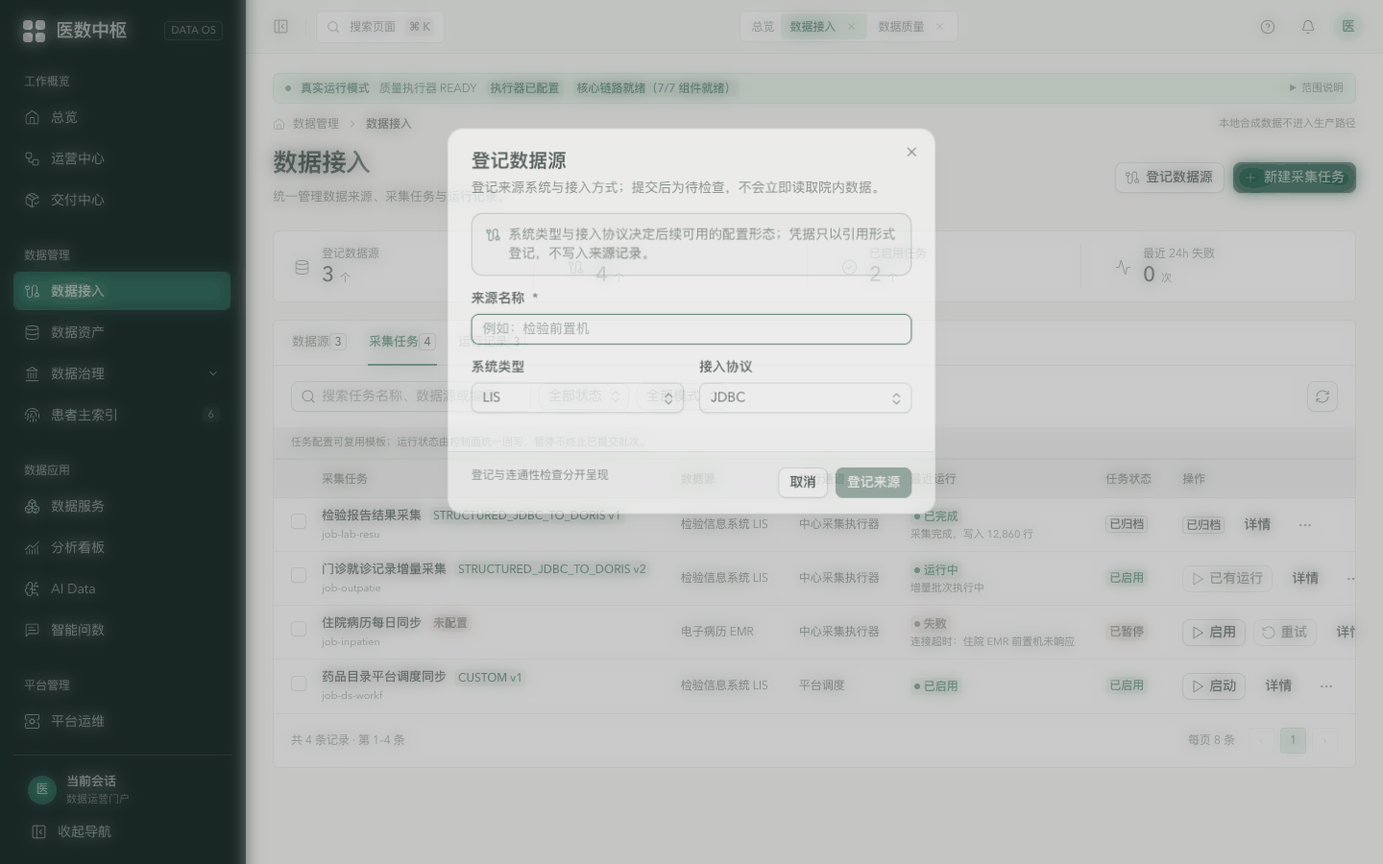
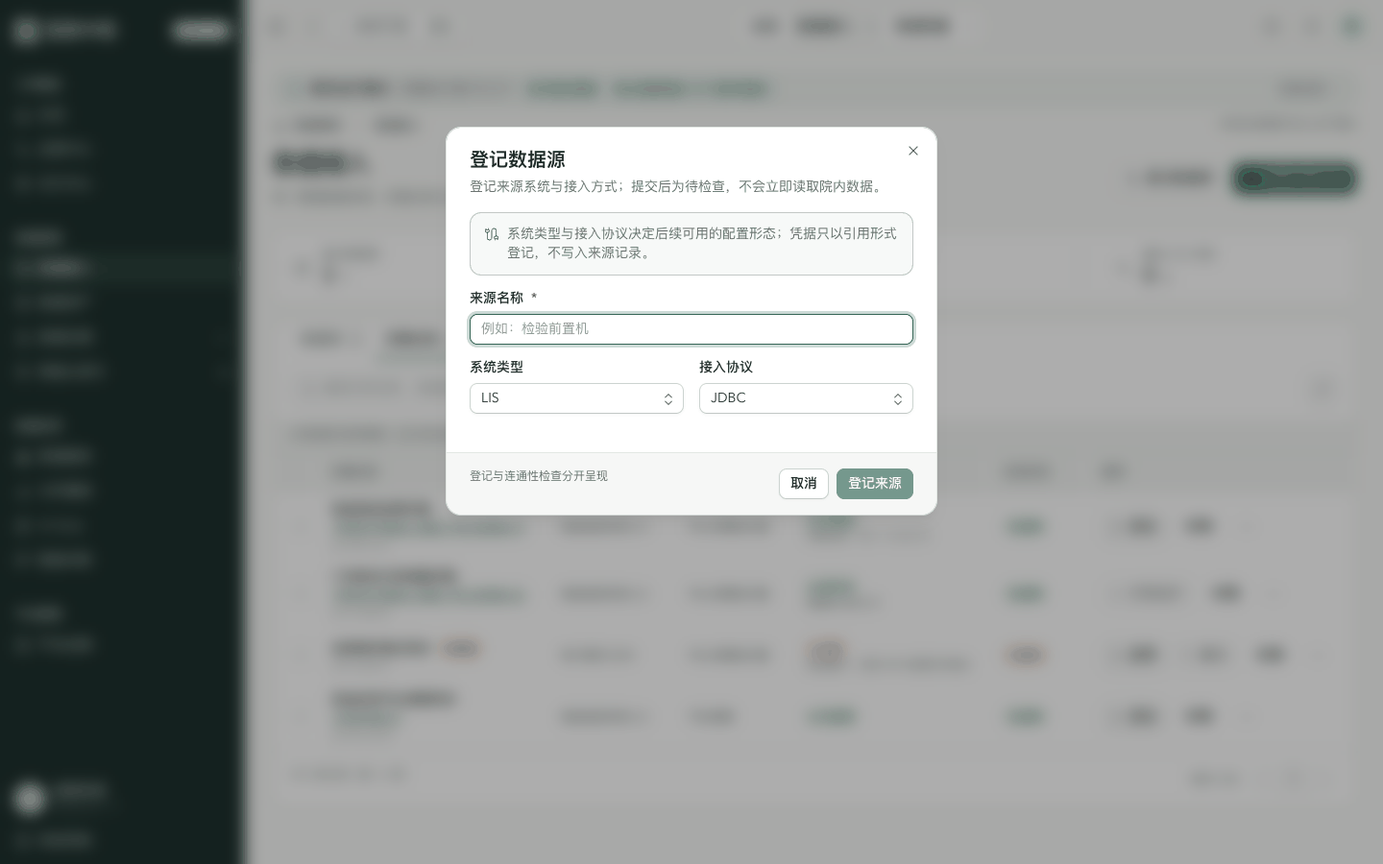
docs(portal): bring the coss ui gate record up to the final branch state
- Gate record: commits up to 7dd9fb6; the unavailable-state
  regression, the breadcrumb fix and the new api-down lock; the
  sidebar rail label fix; the measured list of English helper text
  that coss still exposes to a screen reader (the pagination "More
  pages" entry of the first version sits in an aria-hidden subtree
  and is corrected); the pre-existing findings left open (two pages
  without an h1 when the control plane is down; executorLabel does
  not map the backend's legal value DBT); verification rerun on the
  final code.
- docs/agents/frontend.md: the api-down smoke command, the two-path
  verification rule (hooks before every early return) and the note on
  English helper text shipped by coss parts.
- Backlog memo: closure follow-up for 2026-11-25 with two new
  candidates and the correction of candidate 3.
- The "after" screenshots are retaken from the final build.

diff --git a/docs/validation/portal-coss-ui-20261123.md b/docs/validation/portal-coss-ui-20261123.md
@@ -1,15 +1,16 @@
-# 门户改造为 coss ui：gate 记录（2026-11-24）
+# 门户改造为 coss ui：gate 记录（2026-11-24，11-25 收口更新）
 
-分支 `feat/portal-coss-ui`（20 个提交，**未推送**，推送等用户明示）。基线为 `main` 的 `9044dc0`。
+分支 `feat/portal-coss-ui`（截至最后一个代码提交 `7dd9fb6` 共 25 个提交，其中 `573df9f` 是文档提交；加上本次文档更新共 26 个。**未推送**，推送等用户明示）。基线为 `main` 的 `9044dc0`。
 
 ## 1. 结论
 
 门户 UI 层已整体改用 [coss ui](https://github.com/cosscom/ui)（Base UI + Tailwind 4，shadcn 式源码分发）。
 手写组件层 `src/components/kit` 与旧快照 `shadcn-registry-snapshot` 已删除；页面里不再有裸的 `<button>` 主按钮、`<input>` / `<select>` / `<textarea>`、`<details>`、`role="alert"` 与原生 `title` 提示（保留项见 §7）。
 
-- 测试：30 文件 / 122 例全绿（基线 28 / 120，净增 2 例回归测试）。
+- 测试：30 文件 / 123 例全绿（基线 28 / 120，净增 3 例：2 例表单回归，1 例侧栏辅助文本）。
 - QA 锁：`mock-audit`、`portal-interactions-smoke` 全过，断言无删除。
-- 浏览器：29 路由 × 2 宽度共 58 项检查全过；业务流 fe2–fe6 在全新 mock 上全过。
+- 浏览器：29 路由 × 2 宽度共 58 项检查全过；壳交互 5 项、业务流 fe2–fe6 共 25 项断言在全新 mock 上全过（通过行逐段列出断言数）。
+- 控制面不可达：29 条路由都落到真实的不可用状态（不崩溃、不白屏），由新增的 `qa/api-down-smoke.mjs` 锁定。
 - 深色偏好模拟：计算样式与浅色完全一致，未触发 `dark:`。
 - `npm audit`：与 `main` 完全相同（6 条，全部在开发工具链，见 §8）。
 
@@ -85,7 +86,8 @@
 | `overlay.test.tsx` → `discard-guard.test.tsx`(4) + `confirm-dialog.test.tsx`(2) | 迁移 | 断言原样，改用 coss Dialog / Drawer / AlertDialog 搭最小容器 |
 | `command-palette.test.tsx` | 迁移 | 按 combobox / option 角色查询；「关闭按钮的回车不被拦截」一条无对应物（coss 命令面板没有关闭按钮），并入键盘用例 |
 | `structured-fields.test.tsx` | 新增 | 2 例回归（见 §6） |
-| 其余 24 个文件 | 未改 | — |
+| `app-shell.test.tsx` | 新增 1 例 | 侧栏热区与折叠按钮的辅助文本须含中文（见 §6 末段） |
+| 其余 23 个文件 | 未改 | — |
 
 **QA 锁**
 
@@ -98,10 +100,22 @@
 | `browser-smoke` fe5 结局过滤 | `selectOption` → 点开 combobox 再点 option；断言范围由整个 `main` 收到 `main table tbody`（旧写法把所有选项文案都算进去，恒为真） |
 | `browser-smoke` fe5 日期参数 | 改按 `textbox` 角色定位（日历按钮的标签含同一段文字） |
 | `browser-smoke` fe2 / fe6 弹窗定位 | 按 `dialog` 角色泛查会把 coss Toast（同为 dialog 角色）算进来，改为按标题定位 |
+| **新增** `qa/api-down-smoke.mjs` | 把门户构建成指向无人监听端口，逐路由断言：主工作区有内容、无横向溢出、无应用自身的控制台异常。此前的验证只覆盖接口正常的路径 |
+| **新增** `qa/routes.mjs` | 路由清单从 `browser-smoke.mjs` 抽出，两个冒烟脚本共用；清单本身未改 |
+| `browser-smoke` 通过输出 | 只改输出：通过行列出壳交互与各业务流实际执行的断言数（此前业务流通过时不输出任何内容，`--flows` 写错也会显示通过）。断言、路由与步骤未改 |
 
 ## 6. 顺带修复的存量缺陷
 
 **结构化采集表单不随表单状态重渲染。** `StructuredTaskFields` 读 `form.state.values` 却没有订阅，而项目所用 `@tanstack/react-form` 1.33.5 的 `useForm` 不随状态重渲染。后果：在该表单里连续输入只剩首字符（实测输入「abc」只留下「a」），选库后源表区域不出现。原生 select 靠自己的 DOM 值掩盖了问题；换成受控的 coss Select 后立即暴露。已在改造前提交 `9044dc0` 上复现。修法：`useStore(form.store, (state) => state.values)`（`@tanstack/react-store` 0.11.2 由传递依赖转为直接依赖，精确版本），并补 2 例回归测试（去掉修复 2 例全挂，恢复后全过）。全库只有这一个 `useForm` 使用点。提交 `11818f0`。
+
+**改造引入、交付前发现并修复的两处缺陷（提交 `00a0246`）。** 都只在控制面不可达时出现，所以靠 mock 的路由矩阵一直没碰到：
+
+- *平台运维页在接口不可达时整页崩溃。* 浮层迁移脚本把 `useDiscardGuard(...)` 提到了「离 Dialog 最近的 `return`」之前，而那个 `return` 之上还有一处「无权限 / 平台不可用」的提前返回；一旦走到提前返回就少调了一个 hook，React 卸载了整页（错误 #300：rendered fewer hooks than expected）。`main` 上同场景不崩溃，确认是改造引入。修法：把 hook 提到所有提前返回之前；另写审计脚本扫过全部 `useDiscardGuard` 调用点，没有第二处。
+- *面包屑分隔符嵌在条目内部。* coss 的分隔符本身是 `<li>`，我重写 Breadcrumb 时把它放进了每个条目里，形成 `<li>` 套 `<li>`。已按 coss 写法改为与条目平级。
+
+发现过程值得记下：崩溃是在做完导入块整理（后提交为 `7e57707`）重跑路由矩阵时暴露的——当时 mock 已经停掉，接口全部不可达，`/operations` 报控制台异常。逐层排查（整理前 / `main`）才分清：这一处是改造引入；同一轮里暴露的另两页缺 h1 是存量（§7 第 6 条）。此前的路由矩阵全部建立在 mock 正常响应之上，「控制面整体不可达」这条路径没有被覆盖。
+
+**同类的第三处（提交 `c87e633`）：侧栏边缘热区的英文悬停提示。** 收口时审计了 coss 部件在全部路由与浮层状态下实际渲染的英文辅助文本（`aria-label` / `title` / 读屏文本）。coss `SidebarRail` 自带 `title="Toggle Sidebar"`，鼠标移到侧栏边缘会显示英文提示——这是唯一肉眼可见的一处。coss 把 `props` 展开在最后，已在调用点覆盖成中文，并加 1 例测试（修复前该测试失败于 `"Toggle Sidebar"`）。实测后仍会到达读屏的只剩两处，见 §7 第 4 条。
 
 ## 7. 保留为自定义的部件与待裁决项
 
@@ -110,30 +124,37 @@
 1. **主从列表的选中项按钮（10 处）保留为自定义按钮。** 它们是内容区的选择列表，不是侧栏导航；若改用 coss `SidebarMenuButton`，页面测试都必须包一层 `SidebarProvider`。涉及 AI Data、分析看板、资产目录与资产技术视图、数据服务、治理问题、交付中心、问数面、主索引复核。
 2. **窄屏断点从 lg（1024px）变为 md（768px）。** coss Sidebar 以 md 为抽屉分界，旧壳是 lg。
 3. **体积增加。** JS gzip 合计 331 KB → 490 KB（首屏入口块约 296 KB），CSS gzip 15.3 KB → 30.2 KB。来源是 Base UI 的浮层族（Dialog / Drawer / Popover / Menu / Tooltip / Select / Autocomplete / Toast / Sidebar）与 coss 组件的状态类字符串。日期选择器（约 24 KB）已按需加载。未做裁剪优化，候选见备忘。
-4. **两处英文的辅助文本来自 coss 源码：** Toast 视口的 `aria-label="Notifications"`、分页省略号的读屏文本「More pages」。未改 coss 源码。
+4. **仍会到达读屏的两处英文来自 coss 部件内部（未改 coss 源码）：** Toast 视口的 `aria-label="Notifications"`（Base UI `Toast.Viewport` 的默认值，coss 的 `Toasts` 不向视口透传属性）；窄屏侧栏抽屉的读屏标题与说明「Sidebar」「Displays the mobile sidebar.」（写死在 `Sidebar` 的移动端分支）。两处都只有读屏用户会碰到，其中后者只在窄屏出现。此前记录的分页省略号「More pages」**并不外露**：它在带 `aria-hidden` 的子树里，不会被播报，此处更正。顶栏折叠按钮内部的读屏文本「Toggle Sidebar」已被调用点的 `aria-label` 盖住（按角色查不到该英文名的按钮）。
+   审计口径：浏览器内扫描全部 29 路由及命令面板、侧栏折叠态、登记弹窗、下拉、提示气泡、窄屏抽屉各状态下 `aria-label` / `title` / `.sr-only` 的纯 ASCII 值，再核对可访问名与 `display`。
 5. **源表芯片与版本切换芯片的 `title` 提示保留原生属性**（逐项包 Tooltip 的成本高于收益，且不影响键盘用户）。
-6. **未动的既有问题：** 采集任务的「归档」在行菜单里直接执行、没有后果确认（改造前即如此）；5 个页面各自定义了同构的 `Fact`（label / value）组件。
+6. **未动的既有问题：** 采集任务的「归档」在行菜单里直接执行、没有后果确认（改造前即如此）；5 个页面各自定义了同构的 `Fact`（label / value）组件；控制面不可达时，采集任务详情与数据源浏览两页的不可用状态没有 h1——涉及 3 条路由（任务详情占两条）；`main` 上同样是提前返回 `EmptyState`、先于页头。`api-down-smoke` 目前只断言主工作区非空，不拦这一项。
+7. **核对截图时发现的存量缺口（未改）：** 「数据质量」页的执行批次面板显示「执行器 DBT」，前后截图里都有。后端把 `DBT` 当作合法的质量执行器配置值，而门户 `src/data/domain.ts` 的 `executorLabel` 只映射 `HTTP` / `DEMO`，其余原样显示。dev 与生产模板默认 `HTTP`，只有运维配成 `DBT` 时业务用户才会看到引擎名。修法是一行映射加一条测试，属于业务称谓改动，没有混进改造分支，记入备忘。
 
 ## 8. 验证记录
 
 | 项 | 结果 |
 |---|---|
 | `npx tsc -b` | 通过 |
-| `npx vitest run` | 30 文件 / 122 例通过 |
+| `npx vitest run` | 30 文件 / 123 例通过 |
 | `node qa/mock-audit.mjs` | 通过（17 路由、运行模式可见） |
 | `node qa/portal-interactions-smoke.mjs` | 通过 |
 | `node scripts/freeze-coss-snapshot.mjs --verify` | 通过：44 项登记完整，42 个已安装源文件与快照一致（未安装：form） |
 | `npm run build` | 通过 |
 | `node qa/browser-smoke.mjs --serve` | 58 项路由检查通过（无 console.error、无横向溢出） |
-| `node qa/browser-smoke.mjs --serve --flows all` | fe2–fe6 通过（全新 mock） |
+| `node qa/api-down-smoke.mjs` | 29 条路由通过（控制面不可达）；把守卫放回提前返回之后会在 `/operations` 失败，已反向验证 |
+| `node qa/browser-smoke.mjs --serve --flows all` | 壳交互 5 项、fe2–fe6 共 25 项断言通过（全新 mock；通过行：`fe2 5、fe3 6、fe4 6、fe5 5、fe6 3`） |
 | 深色偏好模拟 | 通过（`prefers-color-scheme: dark` 下计算样式与浅色一致） |
+| 英文辅助文本审计（浏览器内扫描） | 修复后剩 Toast 视口与窄屏抽屉标题两处读屏文本，见 §7 第 4 条 |
+| `node qa/artifact-manifest.mjs --licenses` | 本分支新增生产依赖 2 个（`@daypicker/react`、`@tanstack/react-store`）均为 MIT；生产依赖无未知/未授权许可证 |
 | `npm audit`（官方源） | 6 条（2 moderate、4 high）：`@vitest/mocker`、`vitest`、`nanoid`、`source-map-js`、`undici`、`vite`。与 `main` 逐项相同，全部是开发工具链；新增的 `@daypicker/react`、`@tanstack/react-store` 无告警 |
+
+以上各项均在分支最后一个代码提交 `7dd9fb6` 上执行。`573df9f` 之后的四个代码提交：`00a0246`（不可达修复与新锁）、`7e57707`（导入整理）、`c87e633`（热区中文辅助文本）、`7dd9fb6`（冒烟脚本分段输出，只改输出）。
 
 运行业务流前必须重启 mock：控制面有状态，上一轮发布过的服务不会再次出现「发布」按钮。另：`node … | tail` 会吞掉非零退出码，脚本化时用 `set -o pipefail`。
 
 ## 9. 前后截图
 
-同一 mock 数据、1440×900。目录 [`portal-coss-ui-20261123/`](portal-coss-ui-20261123/)。
+同一 mock 数据、1440×900。目录 [`portal-coss-ui-20261123/`](portal-coss-ui-20261123/)。「改造后」截图取自 `7e57707` 的构建，其后的两个代码提交不改变外观。
 
 | 路由 | 改造前 | 改造后 |
 |---|---|---|

diff --git a/docs/deferred-hardening-backlog.md b/docs/deferred-hardening-backlog.md
@@ -1,15 +1,28 @@
 # 下一阶段备忘（深度测试 / 安全 / 生产加固）
 
+## 2026-11-25 门户改造为 coss ui · 收口补记 · 状态更新
+
+- **分支 `feat/portal-coss-ui` 共 26 个提交（截至代码提交 `7dd9fb6` 为 25 个，另加文档更新），本地未推送**（推送等用户明示）。在 11-24 的 20 个之上补了四笔代码提交：
+  - `00a0246` 修复两处改造引入的缺陷：平台运维页在控制面不可达时整页崩溃（迁移脚本把 `useDiscardGuard` 提到了提前返回之后，React #300）、面包屑 `<li>` 套 `<li>`。新增 `qa/api-down-smoke.mjs` 锁定「接口不可达」路径（29 路由，自行构建、不需要 mock），路由清单抽到 `qa/routes.mjs` 与 `browser-smoke` 共用。
+  - `7e57707` 导入块整理（合并同模块重复导入、分组排序），无行为变化。
+  - `c87e633` 侧栏边缘热区的英文悬停提示改为中文（coss `SidebarRail` 自带 `title="Toggle Sidebar"`，在调用点覆盖）并加 1 例测试。
+  - `7dd9fb6` `browser-smoke` 的通过行列出壳交互与各业务流实际执行的断言数（此前业务流通过时不输出任何内容，`--flows` 写错也显示通过）；只改输出。
+- **最终状态**：30 文件 / 123 例、双 QA、接口不可达 29 路由、58 项路由检查、壳交互 5 项与业务流 25 项断言、深色偏好模拟、快照校验全部在 `7dd9fb6` 上通过；`npm audit` 6 条与 `main` 相同；新增生产依赖 2 个均为 MIT。
+- **新增延后候选**（接 11-24 的 ①–⑥）：
+  - ⑦ 控制面不可达时，采集任务详情与数据源浏览两页的不可用状态没有 h1（3 条路由；`main` 上同样是提前返回 `EmptyState`、先于页头）。`api-down-smoke` 目前只断言主工作区非空；要拦这项得先定口径——不可用状态是否一律保留页头。
+  - ⑧ **质量执行器名直出的潜在缺口（涉及「不暴露引擎名」红线，存量）**：后端把 `DBT` 当作合法的 `DATAOS_QUALITY_EXECUTOR` 取值（`HttpQualityRuleExecutor`、`RuntimeConfigurationValidator` 均接受），门户 `src/data/domain.ts` 的 `executorLabel` 却只映射 `HTTP` / `DEMO`，其余原样显示。dev 与生产模板默认 `HTTP`（显示「质量执行器（在线）」）；运维若配成 `DBT`，业务用户会在「数据质量」页看到引擎名。mock 给的正是 `DBT`。建议补 `DBT` 映射并加测试（一行级改动），属业务称谓改动，未放进改造分支。
+- **验证口径补充**：接口正常（mock）与接口不可达是两条路径，重构后都要跑；用脚本搬动过 hook 位置之后，`api-down-smoke` 是必跑项。
+
 ## 2026-11-24 门户改造为 coss ui · 状态更新
 
-- **改造完成，分支 `feat/portal-coss-ui` 20 个提交，本地未推送**（推送等用户明示）：有 coss 对应物的组件全部直接改用 coss 组件，手写组件层与旧快照已删。30 文件 / 122 例、双 QA、58 项路由检查、fe2–fe6 业务流、深色偏好模拟全过。记录见 [docs/validation/portal-coss-ui-20261123.md](validation/portal-coss-ui-20261123.md)。
+- **改造完成，分支 `feat/portal-coss-ui` 当时 20 个提交（后续提交见上节），本地未推送**（推送等用户明示）：有 coss 对应物的组件全部直接改用 coss 组件，手写组件层与旧快照已删。30 文件 / 122 例、双 QA、58 项路由检查、fe2–fe6 业务流、深色偏好模拟全过。记录见 [docs/validation/portal-coss-ui-20261123.md](validation/portal-coss-ui-20261123.md)。
 - **待用户裁决（不自行排期）**：
   - 主从列表的选中项按钮（10 处）保留为自定义按钮——改用 coss `SidebarMenuButton` 需要每个页面测试包一层 `SidebarProvider`，且它们是内容区选择列表而非侧栏导航。
   - 窄屏侧栏断点由 lg（1024px）变为 md（768px），跟随 coss Sidebar 约定。
 - **新增延后候选**：
   - ① 体积：JS gzip 合计 331 KB → 490 KB（首屏入口块约 296 KB），CSS gzip 15.3 KB → 30.2 KB。来源是 Base UI 浮层族与 coss 组件的状态类字符串；可做的事有：不生成 `dark:` 变体、按路由拆出 Sidebar / Command 等非首屏依赖、给未用到的 coss 部件做按需裁剪。
   - ② 开发工具链 6 条审计告警（`vitest`、`@vitest/mocker`、`vite`、`nanoid`、`source-map-js`、`undici`，2 moderate、4 high）：`main` 上同样存在，本次新增依赖无告警；`npm audit fix` 可修但会改动工具链版本，需单独一轮带全量验证。
-  - ③ coss 源码里的两处英文辅助文本（Toast 视口 `aria-label="Notifications"`、分页省略号读屏文本「More pages」）：不改 coss 源码，待上游或等有中文化方案。
+  - ③ coss 源码里的英文辅助文本：不改 coss 源码，待上游或等有中文化方案。**11-25 更正（实测）**：仍会到达读屏的只有 Toast 视口 `aria-label="Notifications"` 与窄屏侧栏抽屉的读屏标题/说明；原先记的分页「More pages」在 `aria-hidden` 子树内、并不外露；肉眼可见的侧栏热区英文悬停提示已修（`c87e633`）。
   - ④ 采集任务行菜单里的「归档」直接执行、没有后果确认（改造前即如此，与其它归档/删除动作不一致）。
   - ⑤ 5 个页面各自定义了同构的 `Fact`（label / value）组件，可合并到 `components/app`。
   - ⑥ 源表芯片与版本切换芯片的 `title` 提示仍是原生属性（逐项包 Tooltip 的成本高于收益）。
@@ -227,3 +240,4 @@
 - 2026-10-15（redesign 技能审计收口轮）：用户触发 redesign-existing-projects 技能——六维设计审计（排版/色彩/布局/交互/代码质量/图标，explore 子代理全仓扫描）结论为基线健康，问题集中在 v1 色相残留。16 项定向修复全做并部署 dev：**A 入口**（移除无人使用的 Noto Serif SC 加载约 200KB、theme-color 过期色值更正、补 SVG favicon、--font-number 补 Windows 回退 Segoe UI/Roboto Condensed）；**B 色相统一**（v1 苔绿 rgba(46,118,105,*) 20 处→青蓝 rgba(14,116,144,*)、v1 深绿灰 rgba 族 12 处→zinc rgba(31,41,55,*)、平台运维告警条 v1 红/琥珀 rgba→v2、sqlPanel 深色块 #1f2b28→#1b2430 入 zinc 族、GovernanceTabs active 指示器归 --selection-mark、AppShell #1c2422 四处→var(--ink)）；**C 排版**（plannedLabel 10px 与登录脚注 11px 归 12px 地板、两处 font-weight:650 非标准值→600、侧栏图标 strokeWidth 1.5/1.65/1.7 三档统一 1.7）；**D 交互**（MetricStrip 可点卡片补 :active 按压、CommandPalette 选中项补 transition 消键盘瞬变、Toast 补退出动画（自动关闭 timer 从 App.tsx 移入组件以播完再卸载）、5 张接 apiState 的 antd Table 启用内建 loading）；**E 质量**（6 处抽屉标题内联样式抽 Pages.module.css 的 .drawerTitleText、死令牌 --shadow/--jade-deep/--ink-muted 清理）。明确不做：不换字体族（Noto Sans SC 中文正确解）、不抬 12px 正文地板、不动 pageFlow/apiStatus 顶距（有结构注释）、不换图标库/侧栏结构。验证：tsc + vitest 36/36 + 双 qa + build 全绿；dev 浏览器复核质量/数据服务页视觉统一。审计存留观察（不追）：antd Table 部分页面行高随内容两行撑高（内容驱动，非 token 失效）；数据服务页详情区 Table 无独立 loading 态变量可接（匿名 useApiResource）。
 - 2026-11-17（原型 v0.2 对齐审核修复轮）：全量视觉对齐审核后修复 8 项缺口——路由级脏退出守卫（useBlocker 拦侧栏/页签/浏览器返回，三编辑器接入，问数编辑器此前无守卫）、侧栏患者主索引待复核徽标、采集任务勾选列+批量启用/暂停（逐个单任务合同+Confirm）、资产导出目录 CSV（当前过滤口径）、数据源 Dialog 标题统一、placeholder 色值对齐、采集摘要第 4 卡改「最近 24h 失败」（docs/validation/design-alignment-fixes-20261117.md）。**明确不做并记录裁定**：侧栏「工作区选择器」——后端仅 institution_id 作用域键、无机构名称注册表、OIDC token 无组织 claim，实现即造样例（违反「不补样例」红线）；多工作区落地须先建机构注册表 + OIDC 组织 claim（后端事务，届时前端再接）。测试坑：qa/mock-control-plane 为内存有状态，browser-smoke --flows 复跑前须重启 mock（fe5 发布流会撞已发布态）。
 - 2026-11-24（门户改造为 coss ui）：有 coss 对应物的组件全部直接改用 coss 组件，手写组件层与旧快照退役；顺带修复结构化采集表单不随表单状态重渲染的存量缺陷（`useStore` 订阅 + 2 例回归）。30 文件 / 122 例、双 QA、58 项路由检查与 fe2–fe6 全过；分支 `feat/portal-coss-ui` 未推送（docs/validation/portal-coss-ui-20261123.md）。新增延后候选六项（体积、工具链审计告警、coss 英文辅助文本、归档无确认、Fact 重复、芯片 title）。
+- 2026-11-25（门户改造为 coss ui · 收口补记）：代码提交增至 23 个，仍未推送。`00a0246` 修复控制面不可达时平台运维页整页崩溃（迁移脚本把 hook 提到了提前返回之后）与面包屑 `<li>` 嵌套，新增 `qa/api-down-smoke.mjs` 锁定接口不可达路径；`7e57707` 整理导入块。新增延后候选两项：⑦ 不可用状态缺 h1 的两页（3 路由）；⑧ `executorLabel` 不认识后端合法值 `DBT`，配成该值时引擎名直出。同日收口补充：`c87e633` 修掉侧栏热区的英文悬停提示（coss 自带 `title`），`7dd9fb6` 让 `browser-smoke` 通过时列出各段断言数；更正 11-24 的候选 ③（见上）。

diff --git a/docs/agents/frontend.md b/docs/agents/frontend.md
@@ -18,6 +18,7 @@ React 19 + TypeScript + Vite SPA；Tailwind 4（拆分导入、无 preflight，`
 - **TanStack Form**：`useForm` 不随表单状态重渲染，组件里读 `form.state` 不会更新。要用 `useStore(form.store, selector)`、`form.Subscribe` 或 `form.Field`。
 - **辅助语义**：静态说明用 `<Alert role="note">`，反馈类保留 coss 默认的 `role="alert"`；coss Toast 的根节点是 `dialog` 角色（高优先级为 `alertdialog`），按 `getByRole('dialog')` 泛查会把提示也算进去，表单弹窗要按标题定位。
 - **`<a>` 有默认下划线**（无 preflight）：以 `render={<a />}` 渲染的导航按钮要加 `no-underline`。
+- **coss 部件自带英文辅助文本**（`aria-label`、`title`、读屏文本），与「UI 用中文」冲突。coss 把 `props` 展开在最后，多数能在调用点用 `aria-label` / `title` 覆盖（壳的 `SidebarRail`、`SidebarTrigger` 即如此）；写死在部件内部、覆盖不了的两处（Toast 视口 `Notifications`、窄屏侧栏抽屉标题）登记在 gate 记录 `portal-coss-ui-20261123.md` §7。新接入 coss 部件后，在浏览器里查一遍它渲染出的 `[aria-label]` / `[title]` / `.sr-only` 英文值——其中 `title` 是肉眼可见的。
 
 ## 约定与红线
 
@@ -27,8 +28,9 @@ React 19 + TypeScript + Vite SPA；Tailwind 4（拆分导入、无 preflight，`
 - 容器分工按 DESIGN.md §15：对象速览用右侧 Drawer、单步短输入用 Dialog、明确后果用 ConfirmDialog（AlertDialog，初始焦点在取消）、长任务用独立工作页、持续比较用常驻主从；脏数据退出先原位询问（`useDiscardGuard` + `DiscardPrompt`，取消按钮用 `DialogClose` / `DrawerClose` 让关闭请求经过守卫）。
 - Query 纪律：默认不自动重试/不聚焦重发；mutation `retry:false` 且一次意图一次调用（幂等键一次性）；页面级轮询只用 `refetchInterval`/受控 effect（接入运行 5s、AI 构建 2s×150、平台组件 30s）；切键即换缓存，旧响应不得覆盖新对象。
 - 浏览器标签标题随路由动态化（壳的路由 effect）；`index.html` 只提供首帧标题。
-- `qa/*.mjs` 是不变量锁：断言业务不变量而非语法，重构后把锁迁到新家（改断言指向），不要删断言。脚本必须从 `prototype/` 目录运行（内部按 `..` 解析路径）。`qa/mock-control-plane.mjs` 是合成契约替身（仅验收环境）；`qa/browser-smoke.mjs --serve [--flows fe2,…,fe6]` 跑 29 路由 × 2 宽度矩阵与业务流；`qa/artifact-manifest.mjs` 产出 dist 哈希与依赖/许可证清单。
+- `qa/*.mjs` 是不变量锁：断言业务不变量而非语法，重构后把锁迁到新家（改断言指向），不要删断言。脚本必须从 `prototype/` 目录运行（内部按 `..` 解析路径）。`qa/mock-control-plane.mjs` 是合成契约替身（仅验收环境）；`qa/browser-smoke.mjs --serve [--flows fe2,…,fe6]` 跑 29 路由 × 2 宽度矩阵与业务流；`qa/api-down-smoke.mjs` 自行构建，跑同一份路由清单（`qa/routes.mjs`）的控制面不可达路径，不需要 mock；`qa/artifact-manifest.mjs` 带 `dist` 或 `--licenses` 产出 dist 哈希或依赖许可证清单。`browser-smoke` 的通过行列出壳交互与各业务流实际执行的断言数：没传 `--flows` 就不会有业务流，写错了也不会显示通过。
 - 跑业务流前重启 mock（它有状态），并且用 `set -o pipefail`（`| tail` 会吞掉非零退出码）。
+- **接口正常与接口不可达是两条路径，重构后都要跑。** 不可达时页面走的是提前返回分支：hook 一旦落在某个提前返回之后，只有这条路径会暴露（React #300，整页卸载，接口正常时毫无征兆）。`useDiscardGuard` 必须在所有提前返回之前调用；用脚本搬动过代码之后，`api-down-smoke` 是必跑项。
 
 ## coss 升级
 
@@ -51,6 +53,8 @@ node scripts/freeze-coss-snapshot.mjs --verify
 cd prototype && node qa/mock-control-plane.mjs --port 18090 &   # 后台
 VITE_DATAOS_API_BASE_URL=http://127.0.0.1:18090/api npm run build
 node qa/browser-smoke.mjs --serve [--flows all]
+# 控制面不可达路径（自行构建到临时目录，不需要 mock）：
+node qa/api-down-smoke.mjs
 # 依赖审计（项目配置的 npmmirror 源不实现 audit 端点）：
 npm audit --registry=https://registry.npmjs.org
 ```
